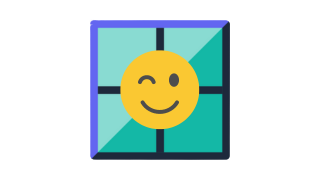
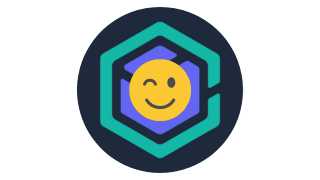
Rebranding

Changed region(s): [[0.2188, 0.0278, 0.7812, 0.9722]]

diff --git a/src/App.tsx b/src/App.tsx
@@ -1,6 +1,6 @@
 import { Routes, Route } from "@solidjs/router";
 import { Component, Show, createEffect, lazy, on, onMount } from "solid-js";
-import favicon from "./assets/img/logo.png";
+import favicon from "./assets/img/logo2.png";
 import { MetaProvider, Link } from "@solidjs/meta";
 import {
   displayError,
@@ -54,7 +54,7 @@ const App: Component = () => {
     <>
       <MetaProvider>
         <div class="Home"></div>
-        <Link rel="icon" type="image/png" sizes="128x128" href={favicon} />
+        <Link rel="icon" type="image/png" href={favicon} />
       </MetaProvider>
       <Show when={error().length > 0}>
         <h2 class="text-center text-red-500 pt-3 bg-white opacity-90 text-2xl fixed top-0 w-screen">

diff --git a/src/components/NavBar.tsx b/src/components/NavBar.tsx
@@ -1,6 +1,6 @@
 import { Component, Show, createSignal, onMount } from "solid-js";
 import { NavLink } from "@solidjs/router";
-import Logo from "../assets/img/logo.png";
+import Logo from "../assets/img/logo2.png";
 import LogoutImg from "../assets/button_icons/logout.png";
 import ProfileImg from "../assets/button_icons/profile.png";
 import {

diff --git a/src/components/Footer.tsx b/src/components/Footer.tsx
@@ -1,5 +1,5 @@
 import { Component } from "solid-js";
-import CBLogo from "../assets/img/logo.png";
+import CBLogo from "../assets/img/logo2.png";
 import { NavLink } from "@solidjs/router";
 
 const Footer: Component = () => {
